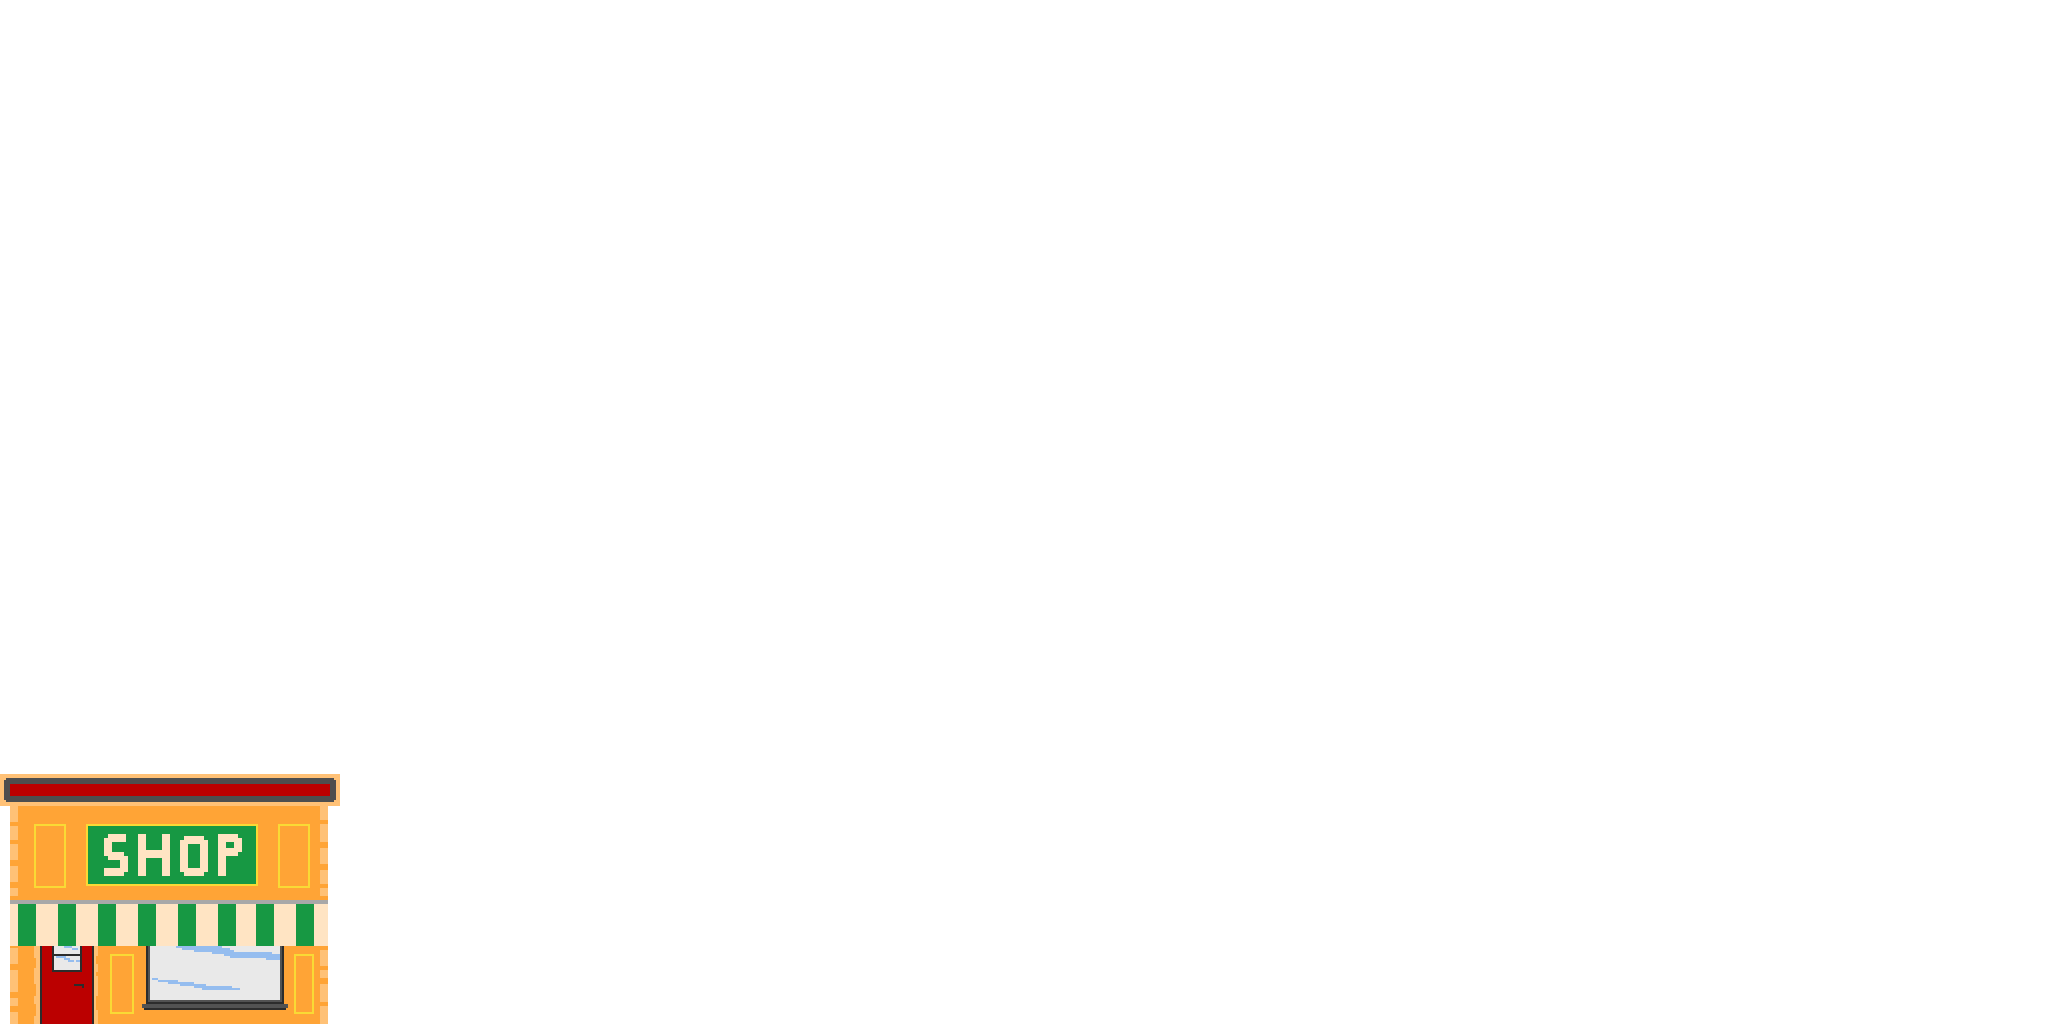
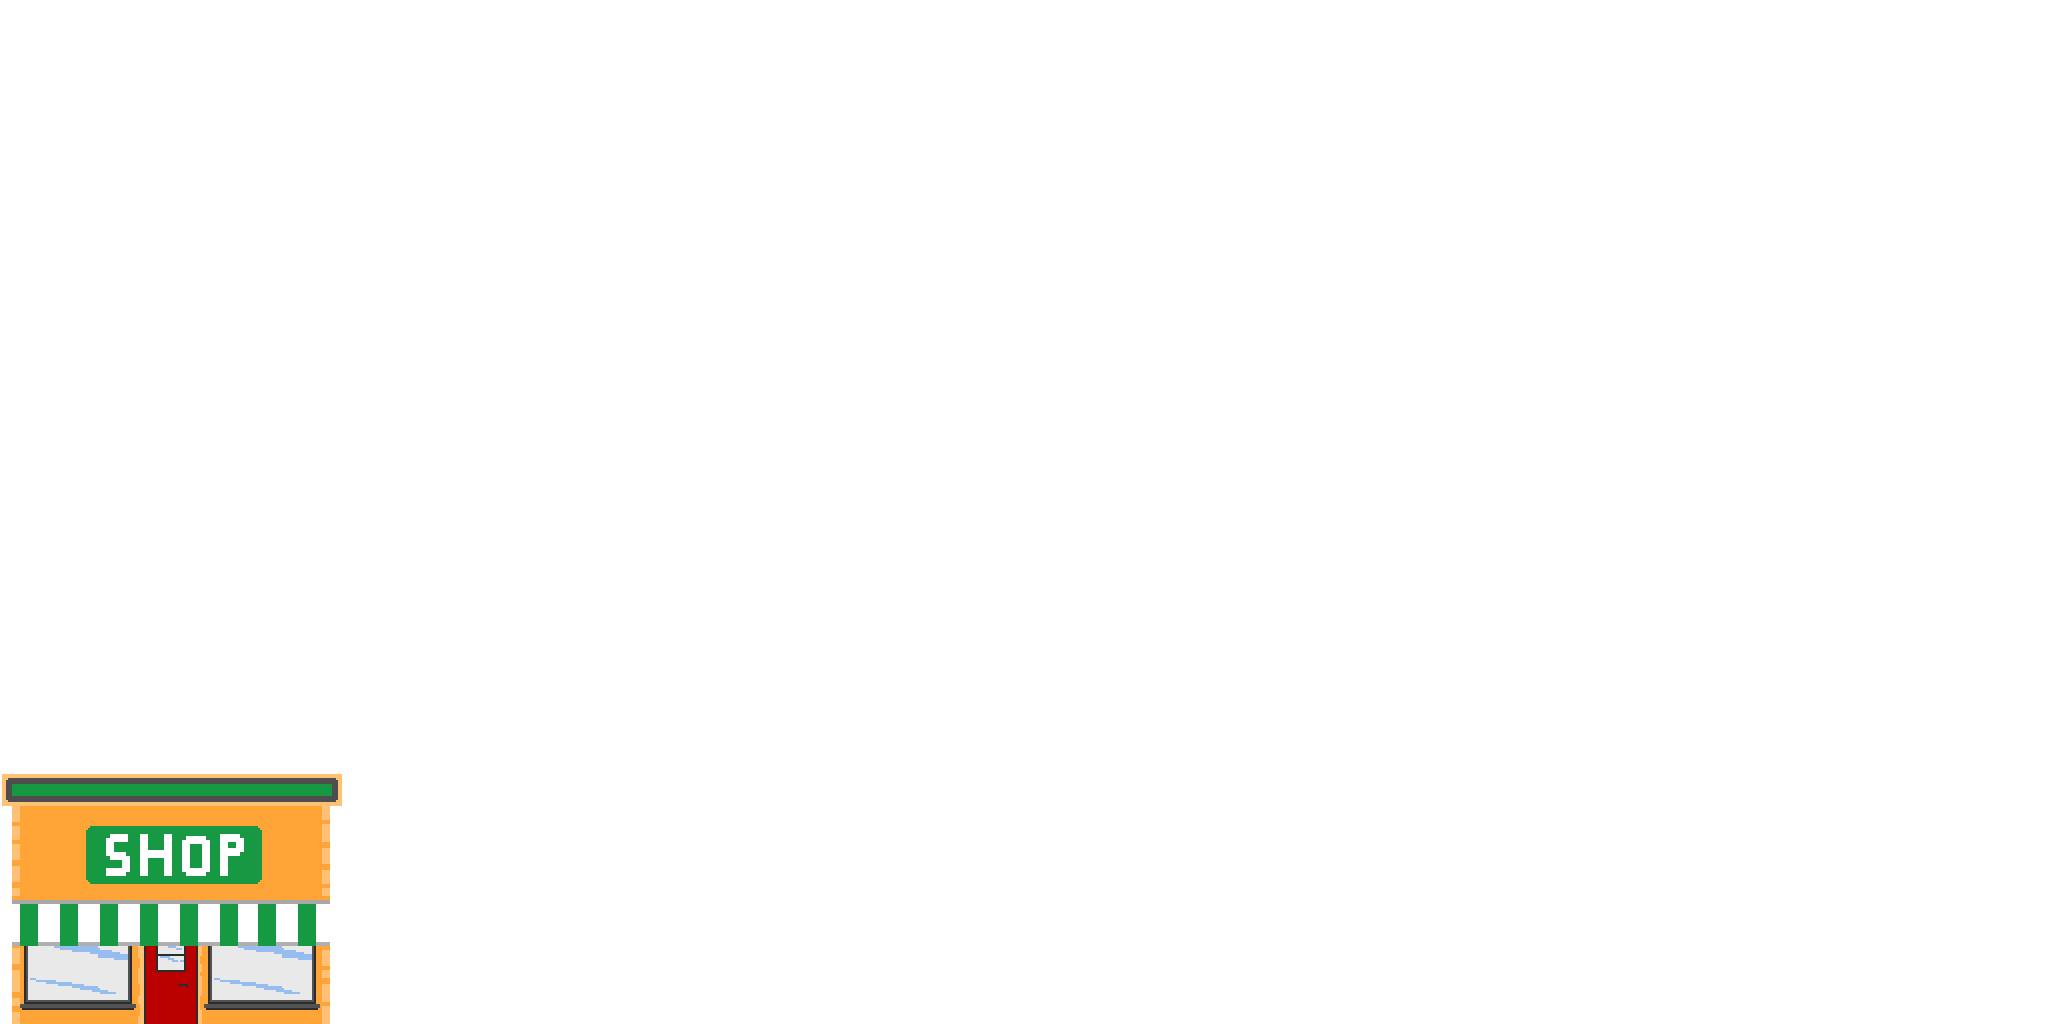
modifs
ajouter nouveau shop + mouchoirs + parapluie + interieur shop

Changed region(s): [[0.0, 0.8125, 0.1875, 1.0], [0.0, 0.75, 0.1875, 0.7812]]

diff --git a/src/scripts/app.js b/src/scripts/app.js
@@ -11,6 +11,8 @@ let bakeryTextShown = false;
 let bakeryText = null;
 let bakeryTextShown2 = false;
 let bakeryText2 = null;
+let shopTextShown2 = false;
+let shopText2 = null;
 let painPrisShown = false;
 let painPris = null;
 let keyObject;
@@ -33,8 +35,7 @@ let playerOnPlat;
 let playerHasBread = false;
 
 let selectedCharacter = 'henri';
-let character
-let isPlayerhenri;
+let character;
 let perso;
 
 function loadCharacterSprites(character) {
@@ -128,7 +129,6 @@ class LoadingScene extends Phaser.Scene {
         this.load.image("cielVille2", "assets/bg/ciel_ville2.png");
         this.load.image("cielParc", "assets/bg/ciel_parc.png");
         this.load.image("cielParc_se", "assets/bg/ciel_parc_se.png");
-        this.load.image("mouchoirs", "assets/objects/bac_mouchoir.png");
         this.load.image("shop", "assets/bg/shop.png");
         this.load.image("merde", "assets/objects/merde_ecran.png");
         this.load.image("caca", "assets/obstacles/caca.png");
@@ -140,8 +140,12 @@ class LoadingScene extends Phaser.Scene {
 
         // bakery
         this.load.image("interieur_bakery", "assets/bg/interieur_bakery.png");
-        //this.load.image("pain", "assets/objects/pain.png");
-        this.load.image("pain", "assets/objects/painV2.png");
+        this.load.image("pain", "assets/objects/pain.png");
+
+         // shop
+        this.load.image("interieur_shop", "assets/bg/interieur_shop.png");
+        this.load.image("parapluie", "assets/objects/parapluie.png");
+        this.load.image("mouchoirs", "assets/objects/mouchoirs.png");
  
         // pluie
         this.load.spritesheet("rain", "assets/objects/pluie.png", {
@@ -620,7 +624,7 @@ class MainWorld extends Phaser.Scene {
         let groundColliderExtra1 = this.physics.add.staticImage(4327, 786, null).setSize(34, 30).setVisible(false);
         let groundColliderExtra2 = this.physics.add.staticImage(5185, 786, null).setSize(32, 30).setVisible(false);
         let enterBakery = this.physics.add.staticImage(13760, 699, null).setSize(52, 79).setVisible(false); //entrée boulangerie
-        let enterShop = this.physics.add.staticImage(7036, 699, null).setSize(51, 79).setVisible(false); //entrée shop
+        let enterShop = this.physics.add.staticImage(7140, 699, null).setSize(51, 79).setVisible(false); //entrée shop
         let bac = this.physics.add.staticImage(7955, 716, null).setSize(150, 50).setVisible(false); //chantier - bac camion
         let truck = this.physics.add.staticImage(8155, 718, null).setSize(148, 48).setVisible(false); //chantier - camion 
         let bar1 = this.physics.add.staticImage(7868, 718, null).setSize(20, 20).setVisible(false); //chantier - bar gauche 
@@ -1037,7 +1041,7 @@ class MainWorld extends Phaser.Scene {
         }
 
         if (shopTextShown) {
-            const distance = Phaser.Math.Distance.Between(player.x, player.y, 7036, 699);
+            const distance = Phaser.Math.Distance.Between(player.x, player.y, 7140, 699);
             if (distance > 100) {
                 if (shopText) {
                     shopText.destroy();
@@ -1268,10 +1272,13 @@ class ShopScene extends Phaser.Scene {
     create(data) {
         selectedCharacter = (data && data.character) ? data.character : 'henri';
 
+        cursors = this.input.keyboard.createCursorKeys();
+
         this.returnX = data.returnX;
         this.returnY = data.returnY;
 
-        player = this.physics.add.sprite(100, 736, "player");
+        this.interiorShop = this.add.tileSprite(0, -190, 1194, 1024, 'interieur_shop').setOrigin(0, 0);
+        player = this.physics.add.sprite(586, 736, "player");
         player.setOrigin(0.5, 1);
         player.setSize(42, 90);
         player.setOffset((144 - 42) / 2, 144 - 90);
@@ -1279,6 +1286,30 @@ class ShopScene extends Phaser.Scene {
 
         let groundColliderShop = this.physics.add.staticImage(600, 784, null).setSize(1200, 100).setVisible(false);
         this.physics.add.collider(player, groundColliderShop);
+
+        this.parapluie = this.physics.add.image(382, 662, 'parapluie');
+
+        this.mouchoirs = this.physics.add.image(784, 660, 'mouchoirs');
+
+        let exitShop = this.physics.add.staticImage(585, 685, null).setSize(57, 100).setVisible(false);
+
+        this.physics.add.overlap(player, exitShop, () => {
+            if (!shopTextShown2) {
+                shopText2 = this.add.text(10, 50, 'Appuyer sur A pour sortir', {
+                    fontSize: '28px',
+                    //fill: '#000F05'
+                    fill: '#FFF'
+                });
+                shopText2.setScrollFactor(0);
+                shopTextShown2 = true;
+            }
+        }, null, this);
+
+        let rightWall = this.physics.add.staticImage(976, 600, null).setSize(10, 300).setVisible(false);
+        this.physics.add.collider(player, rightWall);
+
+        let leftWall = this.physics.add.staticImage(196, 600, null).setSize(10, 300).setVisible(false);
+        this.physics.add.collider(player, leftWall);
         
         this.keyA = this.input.keyboard.addKey(Phaser.Input.Keyboard.KeyCodes.A);
 
@@ -1288,7 +1319,7 @@ class ShopScene extends Phaser.Scene {
 
     update() {
         // sortir du shop
-        if (Phaser.Input.Keyboard.JustDown(this.keyA)) {
+        if (Phaser.Input.Keyboard.JustDown(this.keyA) && shopTextShown2) {
             this.scene.start('MainWorld', {
                 playerX: this.returnX,
                 playerY: this.returnY,
@@ -1297,6 +1328,47 @@ class ShopScene extends Phaser.Scene {
                 character: selectedCharacter
             });
         }
+
+        if (shopTextShown2) {
+            const distance = Phaser.Math.Distance.Between(player.x, player.y, 586, 685);
+            if (distance > 80) {
+                if (shopText2) shopText2.destroy();
+                shopText2 = null;
+                shopTextShown2 = false;
+            }
+        }
+
+        // Mouvement
+        player.setVelocityX(0);
+
+        // Saut
+        if (Phaser.Input.Keyboard.JustDown(cursors.up) && player.body.onFloor()) {
+            player.setVelocityY(-200);
+        }
+
+        // Gauche / Droite
+        if (cursors.left.isDown) {
+            player.setVelocityX(-230);
+            player.setFlipX(true);
+        } else if (cursors.right.isDown) {
+            player.setVelocityX(230);
+            player.setFlipX(false);
+        }
+
+        // Animation (avec ou sans pain)
+        const prefix = playerHasBread ? '_pain' : '';
+        if (!player.body.onFloor()) {
+            player.anims.play('jumping' + prefix + '_' + selectedCharacter, true);
+            player.setFrame(2);
+        } else if (player.body.velocity.x !== 0) {
+            player.anims.play('walking' + prefix + '_' + selectedCharacter, true);
+        } else {
+            player.anims.play('static' + prefix + '_' + selectedCharacter, true);
+        }
+
+        // Murs gauche et droite
+        player.x = Phaser.Math.Clamp(player.x, 0, 1194);
+        console.log(player.x);
     }
 }
 
